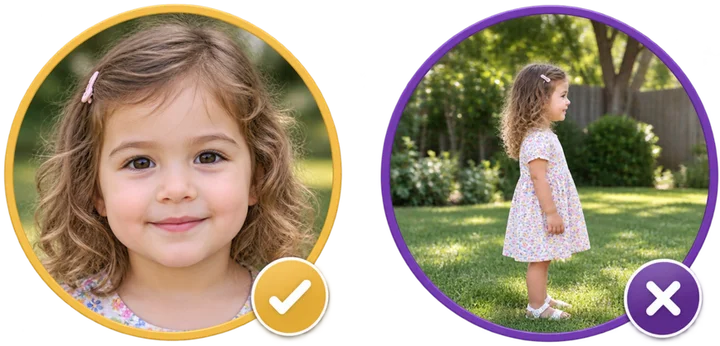
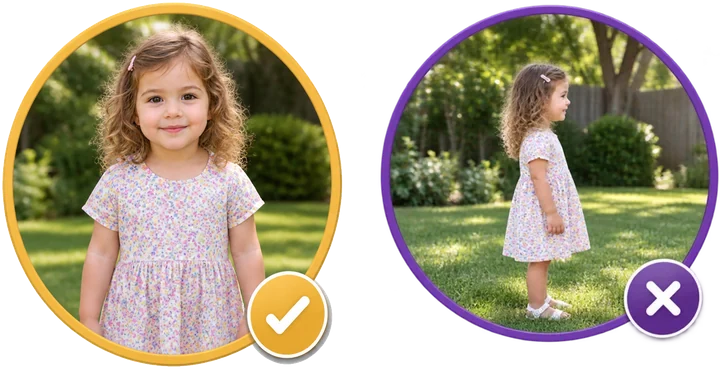
Swap the good example in the photo guide for the new artwork
The left circle is the new photograph, matched to the right one by its ring: both rings
were measured in their own file and the new panel scaled so its radius equals the old
one's, then placed on the same centre. The right circle — the poor example — is the old
pixels, untouched.

The new PNG carries a white background rather than an alpha channel, so the cut is by
connectivity from the border, not by colour: the dress is full of near-white flecks and a
colour key would have punched holes through it. The badge keeps its white outline and its
shadow.

The canvas grew from 346 to 370 because the new artwork hangs its tick below the ring
where the old one tucked it inside the ring's box. Twenty-four pixels of that is nothing
on most windows and exactly eight too many on one: a 1366x657 laptop with a saved child,
which is the window the picker's row was just paid for out of. The guide gives them back
there, contained rather than cropped — a picture of what a good photograph looks like must
not itself be badly cropped. Measured again at 1920x950, 1536x779, 1366x657 and 1280x720,
with the picker and without: no overflow.

The alt text described a face close up. The new example is the child from the head down,
so both translations now say what actually distinguishes the two: one faces the camera,
the other is turned away.

diff --git a/KidsAdventuresAPI/wwwroot/src/lib/i18n/ka/journey.ts b/KidsAdventuresAPI/wwwroot/src/lib/i18n/ka/journey.ts
@@ -61,7 +61,7 @@ export const journey = {
     relationshipCustom: "ჩაწერე ურთიერთობა",
     relationshipPlaceholder: "მაგ. ნათლია ან ჯადოსნური მეგობარი",
     photoGuideAlt:
-      "მარცხნივ სწორი ფოტო — ბავშვის სახე ახლოდან და პირდაპირ; მარჯვნივ არასწორი — შორიდან და გვერდულად.",
+      "მარცხნივ სწორი ფოტო — ბავშვი კამერისკენ იყურება და სახე კარგად ჩანს; მარჯვნივ არასწორი — გვერდულად შემობრუნებული და შორიდან.",
     photoUpload: "ფოტოს ატვირთვა",
     photoReplace: "შეცვალე ფოტო",
     photoChecking: "ფოტო მზადდება…",

diff --git a/KidsAdventuresAPI/wwwroot/src/styles/adventrya/journey-ux.css b/KidsAdventuresAPI/wwwroot/src/styles/adventrya/journey-ux.css
@@ -2279,6 +2279,19 @@
     margin-bottom: 8px;
   }
 
+  /*
+    And the two example photographs, which are an illustration of a rule rather than the rule.
+
+    The picture grew taller when the "good" example was replaced — the new artwork hangs its
+    tick below the ring, where the old one tucked it inside — and eight of those pixels landed
+    on the one window that had none to spare. Contain rather than crop: a guide to what a good
+    photograph looks like must not itself be badly cropped.
+  */
+  .ux-character-stack:has(> .ux-hero-picker) .ux-photo-guide {
+    max-height: 104px;
+    object-fit: contain;
+  }
+
   .ux-profile-stage:has(.ux-hero-picker) > .ux-stage-heading .eyebrow {
     margin-bottom: 4px;
   }

diff --git a/KidsAdventuresAPI/wwwroot/src/lib/i18n/en/journey.ts b/KidsAdventuresAPI/wwwroot/src/lib/i18n/en/journey.ts
@@ -59,7 +59,7 @@ export const journey = {
     relationshipCustom: "Describe the relationship",
     relationshipPlaceholder: "e.g. godparent or magical friend",
     photoGuideAlt:
-      "On the left a good photo — the child's face close up, facing the camera; on the right a poor one, far away and in profile.",
+      "On the left a good photo — the child faces the camera and their face is clearly visible; on the right a poor one, turned in profile and far away.",
     photoUpload: "Upload a photo",
     photoReplace: "Change the photo",
     // Advice, not a rule: the check itself only asks whether a person is in the photo, so this
